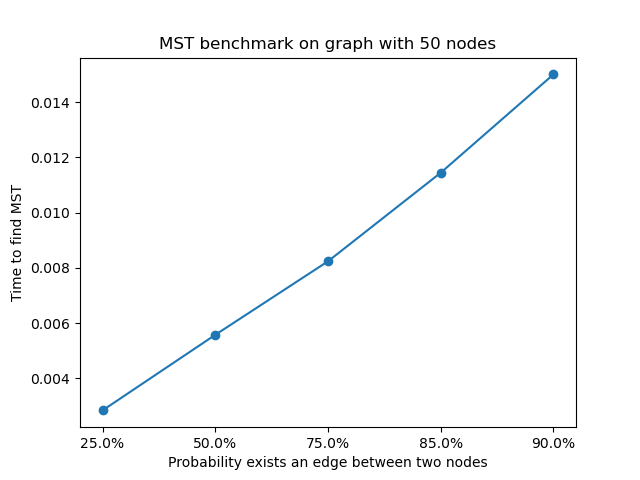
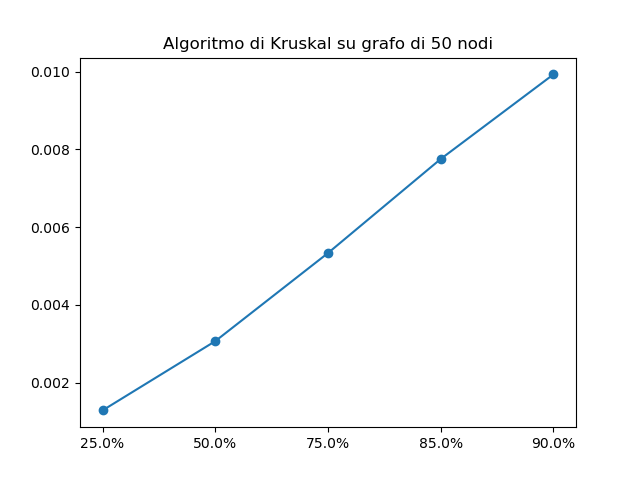
add results after hotfix

diff --git a/results/connected_components.tex b/results/connected_components.tex
@@ -1,0 +1,55 @@
+\begin{tabular}{rr}
+\toprule
+ Probabilità arco &  Componenti connesse \\
+\midrule
+           0.0005 &                  434 \\
+           0.0010 &                  365 \\
+           0.0015 &                  320 \\
+           0.0020 &                  273 \\
+           0.0025 &                  201 \\
+           0.0030 &                  146 \\
+           0.0035 &                   90 \\
+           0.0040 &                   85 \\
+           0.0045 &                   58 \\
+           0.0050 &                   61 \\
+           0.0055 &                   38 \\
+           0.0060 &                   23 \\
+           0.0065 &                   19 \\
+           0.0070 &                   22 \\
+           0.0075 &                   14 \\
+           0.0080 &                    6 \\
+           0.0085 &                   10 \\
+           0.0090 &                    7 \\
+           0.0095 &                    6 \\
+           0.0100 &                    5 \\
+           0.0105 &                    5 \\
+           0.0110 &                    2 \\
+           0.0115 &                    1 \\
+           0.0120 &                    4 \\
+           0.0125 &                    3 \\
+           0.0130 &                    1 \\
+           0.0135 &                    2 \\
+           0.0140 &                    1 \\
+           0.0145 &                    1 \\
+           0.0150 &                    1 \\
+           0.0155 &                    1 \\
+           0.0160 &                    2 \\
+           0.0165 &                    1 \\
+           0.0170 &                    1 \\
+           0.0175 &                    1 \\
+           0.0180 &                    1 \\
+           0.0185 &                    1 \\
+           0.0190 &                    1 \\
+           0.0195 &                    1 \\
+           0.0200 &                    1 \\
+           0.0205 &                    1 \\
+           0.0210 &                    1 \\
+           0.0215 &                    1 \\
+           0.0220 &                    1 \\
+           0.0225 &                    1 \\
+           0.0230 &                    1 \\
+           0.0235 &                    1 \\
+           0.0240 &                    1 \\
+           0.0245 &                    1 \\
+\bottomrule
+\end{tabular}

diff --git a/results/graph_2500_.tex b/results/graph_2500_.tex
@@ -1,11 +1,11 @@
-\begin{tabular}{llrr}
+\begin{tabular}{lrr}
 \toprule
-{} & Probabilities &    MST\_time &  Path\_cost \\
+Probabilities &   MST\_time &  Path\_cost \\
 \midrule
-0 &         25.0\% &   13.503932 &    24769.0 \\
-1 &         50.0\% &   38.902847 &    13361.0 \\
-2 &         75.0\% &   75.102103 &     9374.0 \\
-3 &         85.0\% &  116.598347 &     8377.0 \\
-4 &         90.0\% &  160.019772 &     8064.0 \\
+        25.0\% &   9.355947 &      48310 \\
+        50.0\% &  23.842331 &      24884 \\
+        75.0\% &  41.475755 &      17452 \\
+        85.0\% &  60.961572 &      15341 \\
+        90.0\% &  81.663969 &      14490 \\
 \bottomrule
 \end{tabular}

diff --git a/results/graph_1000_.tex b/results/graph_1000_.tex
@@ -1,11 +1,11 @@
-\begin{tabular}{llrr}
+\begin{tabular}{lrr}
 \toprule
-{} & Probabilities &   MST\_time &  Path\_cost \\
+Probabilities &  MST\_time &  Path\_cost \\
 \midrule
-0 &         25.0\% &   1.045031 &    26176.0 \\
-1 &         50.0\% &   2.969714 &    12626.0 \\
-2 &         75.0\% &   5.760157 &     8538.0 \\
-3 &         85.0\% &   8.972535 &     7808.0 \\
-4 &         90.0\% &  12.403965 &     7163.0 \\
+        25.0\% &  0.585374 &      48580 \\
+        50.0\% &  1.528938 &      24001 \\
+        75.0\% &  3.049674 &      15563 \\
+        85.0\% &  5.123398 &      14680 \\
+        90.0\% &  7.259913 &      14099 \\
 \bottomrule
 \end{tabular}

diff --git a/results/graph_100_.tex b/results/graph_100_.tex
@@ -1,11 +1,11 @@
-\begin{tabular}{llrr}
+\begin{tabular}{lrr}
 \toprule
-{} & Probabilities &  MST\_time &  Path\_cost \\
+Probabilities &  MST\_time &  Path\_cost \\
 \midrule
-0 &         25.0\% &  0.008245 &    24883.0 \\
-1 &         50.0\% &  0.017859 &     9868.0 \\
-2 &         75.0\% &  0.031444 &     6892.0 \\
-3 &         85.0\% &  0.046263 &     8566.0 \\
-4 &         90.0\% &  0.060053 &     6414.0 \\
+        25.0\% &  0.004275 &      46625 \\
+        50.0\% &  0.009641 &      24735 \\
+        75.0\% &  0.016913 &      17993 \\
+        85.0\% &  0.025333 &      13157 \\
+        90.0\% &  0.034317 &      13244 \\
 \bottomrule
 \end{tabular}

diff --git a/results/graph_10_.tex b/results/graph_10_.tex
@@ -1,11 +1,11 @@
-\begin{tabular}{llrr}
+\begin{tabular}{lrr}
 \toprule
-{} & Probabilities &  MST\_time &  Path\_cost \\
+Probabilities &  MST\_time &  Path\_cost \\
 \midrule
-0 &         25.0\% &  0.000262 &    11127.0 \\
-1 &         50.0\% &  0.000510 &    12499.0 \\
-2 &         75.0\% &  0.000799 &     6869.0 \\
-3 &         85.0\% &  0.001122 &     2726.0 \\
-4 &         90.0\% &  0.001438 &     6477.0 \\
+        25.0\% &  0.000107 &      26200 \\
+        50.0\% &  0.000254 &      23191 \\
+        75.0\% &  0.000374 &      15880 \\
+        85.0\% &  0.000517 &      12341 \\
+        90.0\% &  0.000678 &      14467 \\
 \bottomrule
 \end{tabular}

diff --git a/results/graph_500_.tex b/results/graph_500_.tex
@@ -1,11 +1,11 @@
-\begin{tabular}{llrr}
+\begin{tabular}{lrr}
 \toprule
-{} & Probabilities &  MST\_time &  Path\_cost \\
+Probabilities &  MST\_time &  Path\_cost \\
 \midrule
-0 &         25.0\% &  0.197628 &    26038.0 \\
-1 &         50.0\% &  0.552959 &    11326.0 \\
-2 &         75.0\% &  1.092492 &     8525.0 \\
-3 &         85.0\% &  1.697614 &     7610.0 \\
-4 &         90.0\% &  2.339602 &     6730.0 \\
+        25.0\% &  0.127978 &      51688 \\
+        50.0\% &  0.323280 &      25704 \\
+        75.0\% &  0.579245 &      15491 \\
+        85.0\% &  0.861888 &      13916 \\
+        90.0\% &  1.157167 &      13183 \\
 \bottomrule
 \end{tabular}

diff --git a/results/graph_50_.tex b/results/graph_50_.tex
@@ -1,11 +1,11 @@
-\begin{tabular}{llrr}
+\begin{tabular}{lrr}
 \toprule
-{} & Probabilities &  MST\_time &  Path\_cost \\
+Probabilities &  MST\_time &  Path\_cost \\
 \midrule
-0 &         25.0\% &  0.002843 &    16512.0 \\
-1 &         50.0\% &  0.005578 &    14709.0 \\
-2 &         75.0\% &  0.008240 &     8793.0 \\
-3 &         85.0\% &  0.011446 &     6604.0 \\
-4 &         90.0\% &  0.015005 &     6798.0 \\
+        25.0\% &  0.001284 &      37345 \\
+        50.0\% &  0.003065 &      15639 \\
+        75.0\% &  0.005331 &      16223 \\
+        85.0\% &  0.007751 &      16280 \\
+        90.0\% &  0.009926 &      12641 \\
 \bottomrule
 \end{tabular}

diff --git a/main.py b/main.py
@@ -5,5 +5,5 @@ def main():
     print("Start program\nMemory info: " , psutil.virtual_memory())
     experiment.start_experiment()
 
-
-main()
+if __name__ == "__main__":
+    main()
